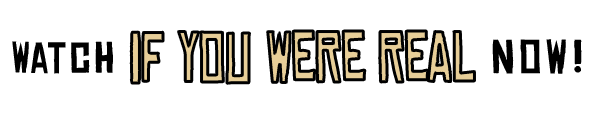
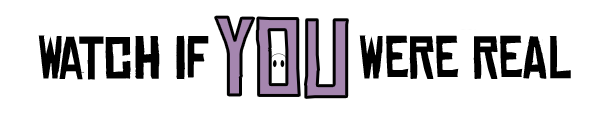
asd

diff --git a/OLD/aug2026.html b/OLD/aug2026.html
@@ -132,11 +132,6 @@
     	flex-wrap: wrap;
 	}
 
-
-    .album-stream-buttons {
-        margin-top: 1.25rem;
-    }
-
     .stream-buttons a {
     	padding: 0.8rem 1.6rem;
     	border-radius: 50px;
@@ -214,41 +209,23 @@
         aspect-ratio: 16 / 9;
     }
 
-    /* Going Up? album splash */
+    /* Native Going Up? trailer — shrink-wrap the frosted pane to the portrait video */
     .trailer {
-        width: 100%;
-        max-width: 800px;
+        width: fit-content;
+        max-width: calc(100% - 2rem);
         align-self: center;
-        padding: 2rem 1.5rem;
-        box-sizing: border-box;
+        padding: 1rem;
     }
 
-    .album-title {
+    .trailer video {
+        width: auto;
+        height: min(60vh, 600px);
+        max-width: calc(100vw - 4rem);
         display: block;
-        width: min(100%, 520px);
-        height: auto;
-        margin: 0 auto 1rem;
-    }
-
-    .album-cover-link {
-        display: block;
-        width: 100%;
-        max-width: 700px;
         margin: 0 auto;
         border-radius: 8px;
-        overflow: hidden;
-        transition: transform 0.2s ease, box-shadow 0.2s ease;
-    }
-
-    .album-cover-link:hover {
-        transform: translateY(-3px);
-        box-shadow: 0 10px 24px rgba(0,0,0,0.18);
-    }
-
-    .album-cover {
-        display: block;
-        width: 100%;
-        height: auto;
+        background: #000;
+        object-fit: contain;
     }
     .video {
     	background-color: rgba(255, 255, 255, 0.6);
@@ -526,26 +503,13 @@
         <a href="#booking">BOOK US</a>
     </nav>
     <main>
-        <!-- Going Up? album splash -->
-        <section class="video section trailer" id="going-up-album">
-            <h2 class="visually-hidden">Buy Going Up?</h2>
-            <img src="BuyGoingUp.png" alt="Buy Going Up?" class="album-title">
-            <a class="album-cover-link" href="https://linktr.ee/going_up" target="_blank" rel="noopener noreferrer" aria-label="Buy or stream Going Up?">
-                <img src="AlbumCover.png" alt="Going Up? album cover" class="album-cover">
-            </a>
-            <div class="stream-buttons album-stream-buttons">
-                <a href="https://open.spotify.com/artist/57w1EJGqv0kY5Q5cEnRAHQ"
-                   target="_blank" rel="noopener noreferrer"
-                   class="spotify-btn">
-                    Listen on Spotify
-                </a>
-
-                <a href="https://music.apple.com/ca/artist/greg/1848399170"
-                   target="_blank" rel="noopener noreferrer"
-                   class="apple-btn">
-                    Listen on Apple Music
-                </a>
-            </div>
+        <!-- Going Up? trailer -->
+        <section class="video section trailer" id="going-up-trailer">
+            <h2 class="visually-hidden">Going Up? Trailer</h2>
+            <video controls playsinline preload="metadata" aria-label="Going Up? trailer">
+                <source src="GoingUpTrailerFInaleNoche.mp4" type="video/mp4">
+                Your browser does not support the video tag.
+            </video>
         </section>
 
         <!-- Watch 'If You Were Real' Now!! video section -->
@@ -603,6 +567,22 @@
                 <source src="Mr Blue Sky.mp3" type="audio/mpeg">
                 Your browser does not support the audio element.
             </audio>
+        </section>
+
+        <section class="stream-links section">
+            <div class="stream-buttons">
+                <a href="https://open.spotify.com/artist/57w1EJGqv0kY5Q5cEnRAHQ"
+                   target="_blank" rel="noopener noreferrer"
+                   class="spotify-btn">
+                    Listen on Spotify
+                </a>
+
+                <a href="https://music.apple.com/ca/artist/greg/1848399170"
+                   target="_blank" rel="noopener noreferrer"
+                   class="apple-btn">
+                    Listen on Apple Music
+                </a>
+            </div>
         </section>
 
         <section class="video section" id="video">
